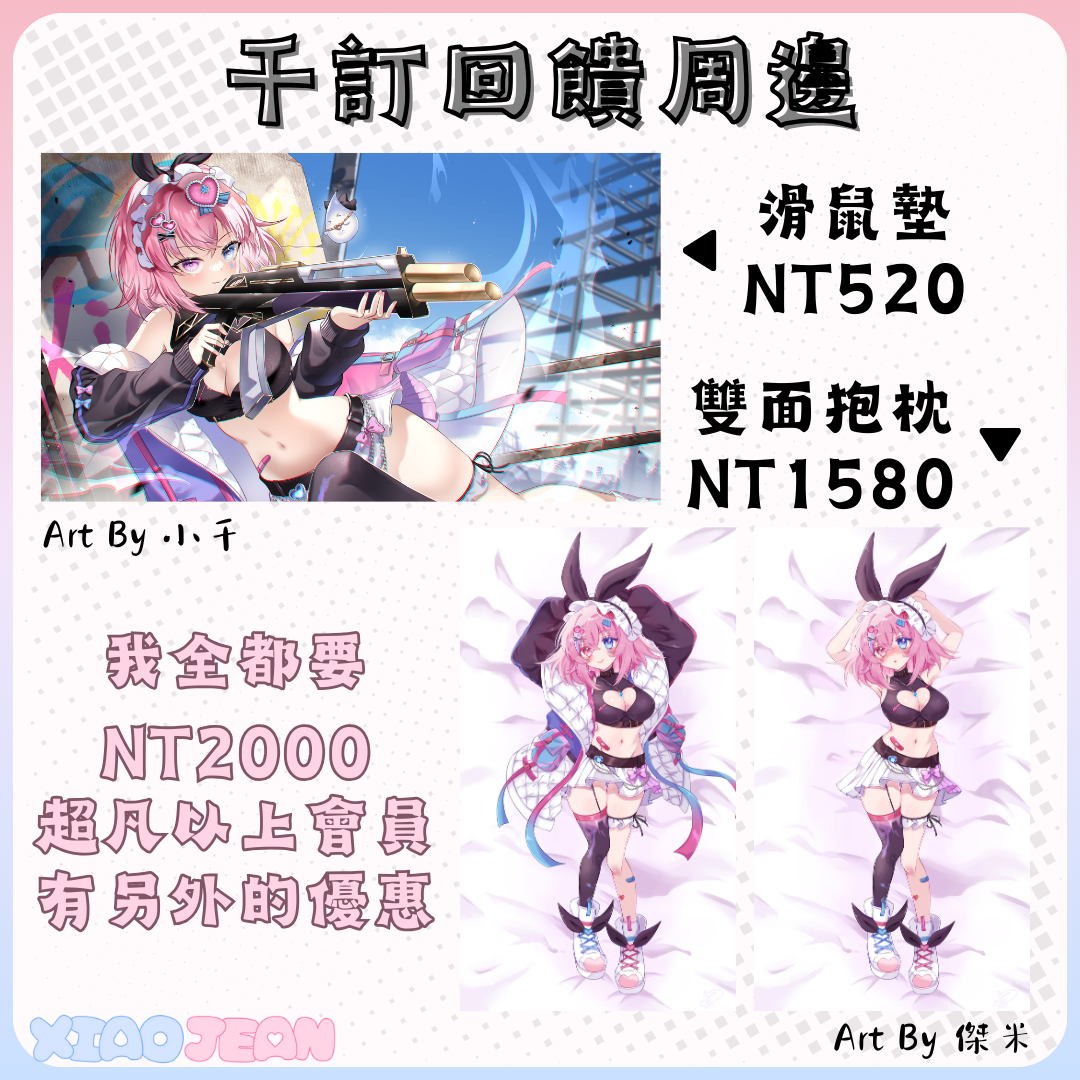
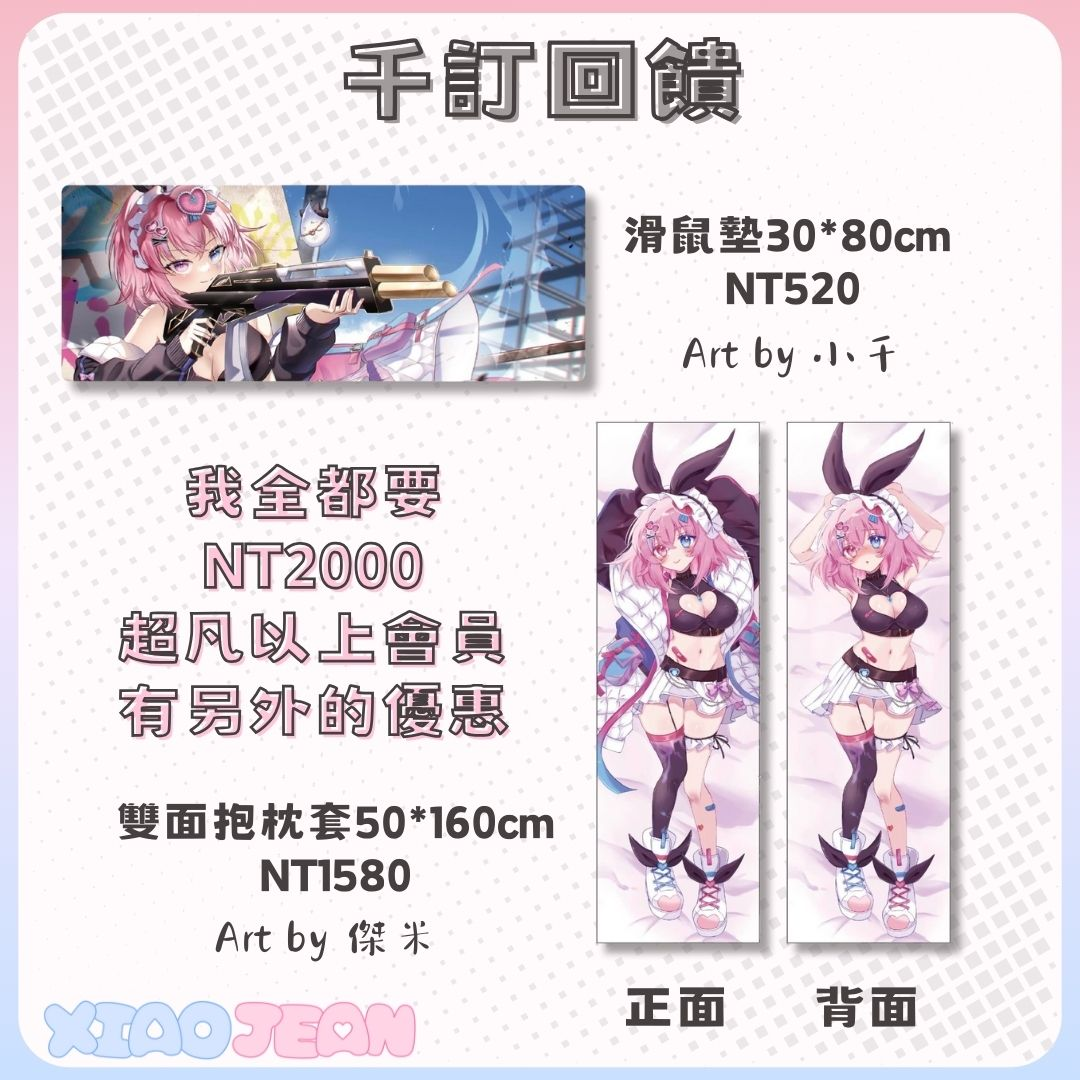
Ver.1.1.12
1. 文本修正、微調周邊形象展示的UI
2. Ver.1.1.11誤刪2周年回饋周邊，此次更新已補回
3. Assets移除舊的周邊圖檔，避免檔名混亂

diff --git a/src/components/const.tsx b/src/components/const.tsx
@@ -18,11 +18,17 @@ export const images = {
             lineEmoji: require('@/assets/xiaojean/B.周邊/008-Lline表情符號(去背).png'),
         },
         discontinued: {
-            thousandSub: require('@/assets/xiaojean/B.周邊/002-千訂回饋周邊_B.png'),
-            ff43: require('@/assets/xiaojean/B.周邊/006-FF43周邊_B.jpg'),
-            anniversary_1st: require('@/assets/xiaojean/B.周邊/001-一周年回饋_B.png'),
+            thousandSub: require('@/assets/xiaojean/B.周邊/002-千訂回饋周邊.png'),
+            ff43: require('@/assets/xiaojean/B.周邊/006-FF43周邊.jpg'),
+            anniversary_1st: require('@/assets/xiaojean/B.周邊/001-一周年回饋.png'),
+            anniversary_2nd: require('@/assets/xiaojean/B.周邊/005-二周年回饋.png'),
             crowdfunding_designVersion_2: require('@/assets/xiaojean/B.周邊/003-2.0募資限定周邊.jpg'),
         },
+    },
+    design: {
+        historyDesign: {
+            "0.0": require('@/assets/xiaojean/F.形象圖/A00.png'),
+        }
     }
 }
 
@@ -85,7 +91,7 @@ export const TEXT = {
                     },
                     facebook: {
                         title: 'Facebook',
-                        subtitle: 'Event Posts, Artwork',
+                        subtitle: 'Artwork, Event Posts',
                     },
                     discord: {
                         title: 'Discord',
@@ -164,11 +170,10 @@ export const TEXT = {
                 lineSticker: "Line Stickers",
                 lineEmoji: "Line Emojis",
                 thousandSub: '1K Subscribers',
-                ff43_01: 'FF43',
+                ff43: 'FF43',
                 anniversary_1st: '1st Anniversary',
-                anniversary_2nd_crowdfunding_01: '2.0 Crowdfunding',
-                anniversary_2nd_crowdfunding_02: '2.0 Crowdfunding',
-                anniversary_2nd_crowdfunding_03: '2nd Anniversary',
+                anniversary_2nd: '2nd Anniversary',
+                anniversary_2nd_crowdfunding: '2.0 Crowdfunding',
             },
             link: {
                 commingSoon: '《Coming Soon》',
@@ -265,7 +270,7 @@ export const TEXT = {
                     },
                     facebook: {
                         title: 'Facebook',
-                        subtitle: '活動貼文、繪圖作品',
+                        subtitle: '繪圖作品、活動貼文',
                     },
                     discord: {
                         title: 'Discord',
@@ -344,11 +349,10 @@ export const TEXT = {
                 lineSticker: "小靜Line貼圖",
                 lineEmoji: "小靜Line表情符號",
                 thousandSub: '千訂回饋',
-                ff43_01: 'FF43',
-                anniversary_1st: '一週年套組',
-                anniversary_2nd_crowdfunding_01: '2.0募資限定',
-                anniversary_2nd_crowdfunding_02: '2.0募資限定',
-                anniversary_2nd_crowdfunding_03: '二週年立牌',
+                ff43: 'FF43',
+                anniversary_1st: '一週年回饋',
+                anniversary_2nd: '二週年回饋',
+                anniversary_2nd_crowdfunding: '2.0募資限定',
             },
             link: {
                 commingSoon: '《敬請期待》',

diff --git a/src/pages/merch.tsx b/src/pages/merch.tsx
@@ -68,17 +68,22 @@ export const Merch = () => {
                             <p className="merch-item-title">{currentText.title.anniversary_1st}</p>
                         </li>
                         <li className='merch-item'>
+                            <img src={merch.discontinued.anniversary_2nd || defaultImg} alt="Lost" />
+                            <p className="merch-item-title">{currentText.title.anniversary_2nd}</p>
+                        </li>
+                        <li className='merch-item'>
                             <img src={merch.discontinued.thousandSub || defaultImg} alt="Lost" />
                             <p className="merch-item-title">{currentText.title.thousandSub}</p>
                         </li>
                         <li className='merch-item'>
                             <img src={merch.discontinued.crowdfunding_designVersion_2 || defaultImg} alt="Lost" />
-                            <p className="merch-item-title">{currentText.title.anniversary_2nd_crowdfunding_01}</p>
+                            <p className="merch-item-title">{currentText.title.anniversary_2nd_crowdfunding}</p>
                         </li>
                         <li className='merch-item'>
                             <img src={merch.discontinued.ff43 || defaultImg} alt="Lost" />
-                            <p className="merch-item-title">{currentText.title.ff43_01}</p>
+                            <p className="merch-item-title">{currentText.title.ff43}</p>
                         </li>
+
                         {/* <li className='merch-item'>
                             <img src={defaultImg} alt="Lost" />
                             <p className="merch-item-title">敬請期待</p>

diff --git a/src/styles/design.css b/src/styles/design.css
@@ -20,7 +20,7 @@
 
 /* 二創 */
 .rule-list {
-    margin-top: 30px;
+    margin-top: 20px;
 }
 
 .title {
@@ -48,6 +48,8 @@
 
 .design-image {
     height: 500px;
+    margin-top: 30px;
+    border-radius: 10px;
 }
 
 @media screen and (max-width:1024px) {
